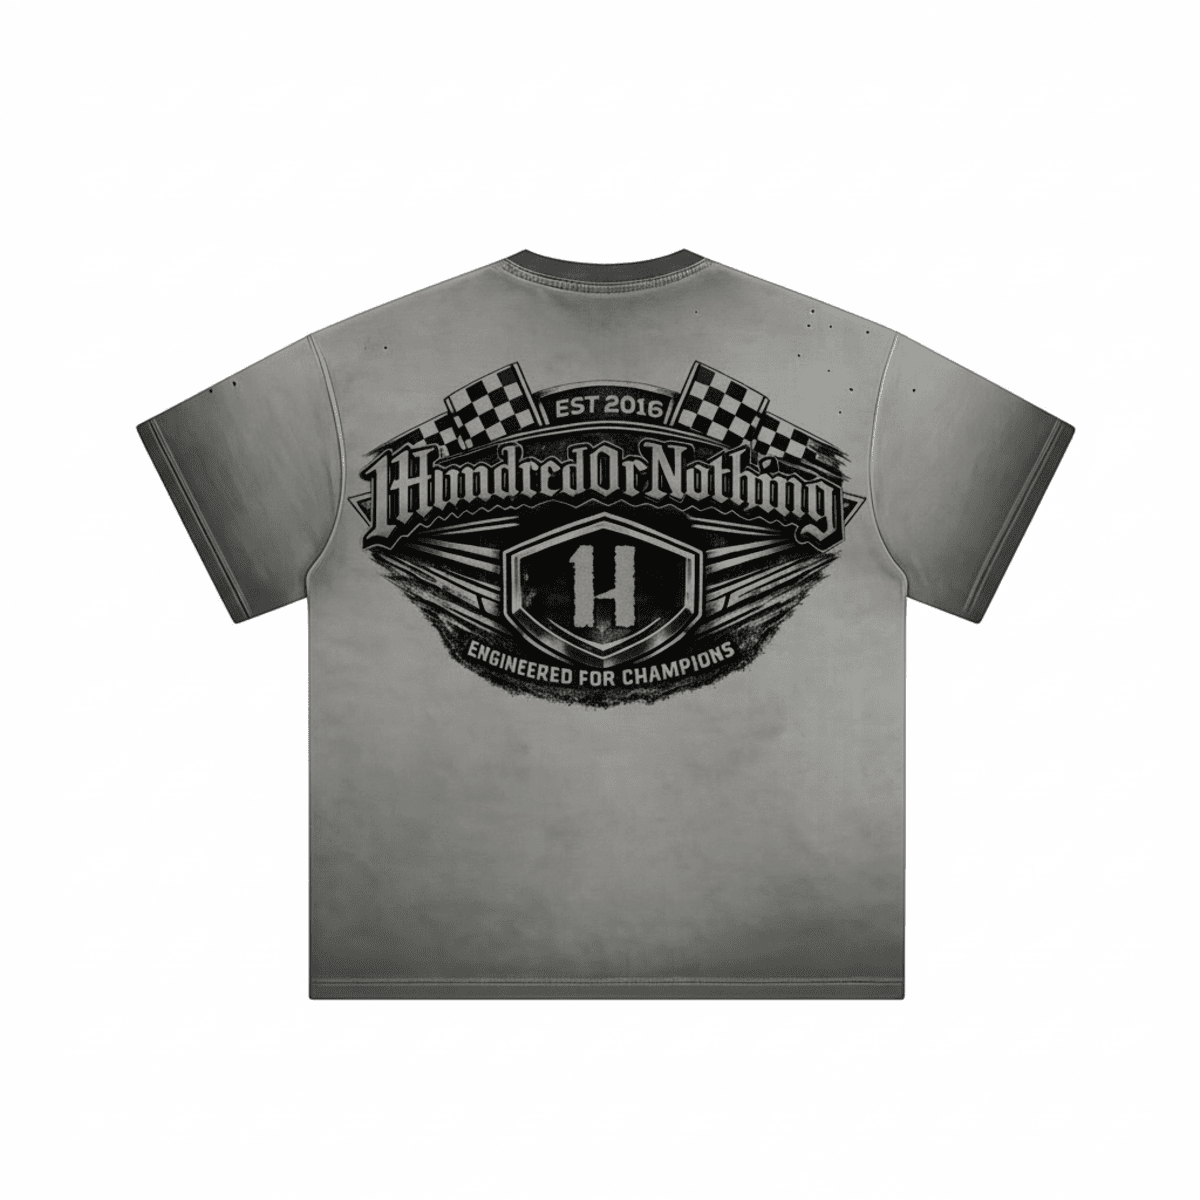
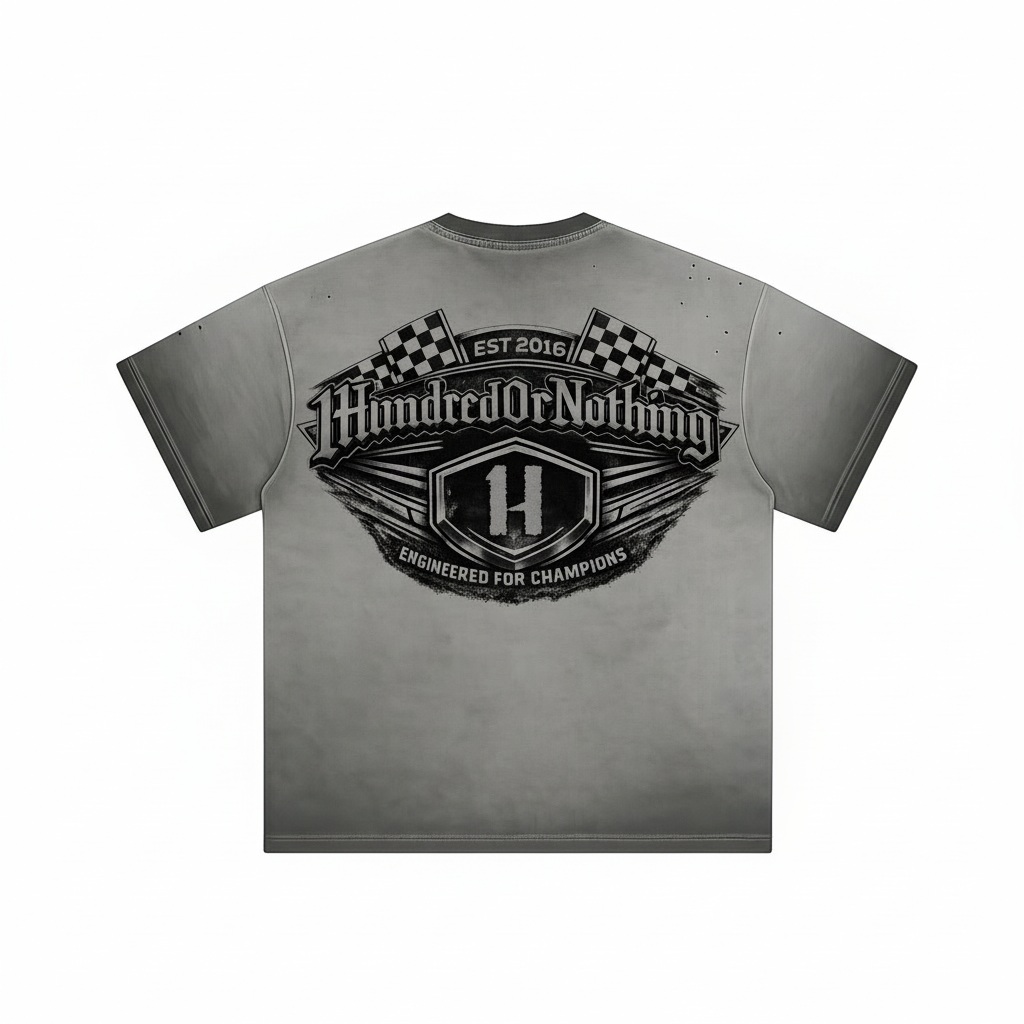
Fix image colors and center hero layout
Re-process all product/hero images from originals using resize-only
(no pngquant palette reduction). The previous 256-color lossy
compression shifted navy jeans to black and flattened subtle tones.
Now full 24-bit PNG with color profiles preserved.

Hero layout reverted to centered: image behind as background with
object-contain, dark text centered on top. No overlays or filters.

Changed region(s): [[0.625, 0.375, 0.6562, 0.4062], [0.5938, 0.4688, 0.625, 0.5], [0.5625, 0.3438, 0.5938, 0.375]]

diff --git a/index.html b/index.html
@@ -311,33 +311,30 @@
 
         <main id="main-content">
             <!-- Hero Section -->
-            <section class="relative h-screen overflow-hidden bg-white" style="padding-top: 64px;">
-                <div class="container-main h-full">
-                    <div class="h-full flex flex-col-reverse md:flex-row items-center">
-                        <!-- Left: text + buttons -->
-                        <div class="flex-1 flex flex-col justify-center py-8 md:py-0 md:pr-8">
-                            <p class="text-black/60 text-sm font-bold tracking-[0.2em] uppercase mb-4">
-                                Spring / Summer 2026
-                            </p>
-                            <h1
-                                class="text-black text-5xl md:text-7xl lg:text-8xl font-display font-bold uppercase mb-8 leading-none">
-                                The New<br />Wave
-                            </h1>
-                            <p class="text-black/70 text-lg mb-10 max-w-xl">
-                                Discover the latest collection of premium streetwear essentials designed for the modern
-                                individual.
-                            </p>
-                            <div class="flex flex-col sm:flex-row gap-4">
-                                <a href="/shop" class="btn btn-primary btn-lg">Shop Now</a>
-                                <a href="/shop" class="btn btn-secondary btn-lg">New Arrivals</a>
-                            </div>
-                        </div>
-                        <!-- Right: model image, no filters -->
-                        <div class="flex-1 h-full flex items-end justify-center md:justify-end">
-                            <img
-                                src="background.png"
-                                alt="1 HUNDRED Relentless Trophy Tee and 1H Star Cap - Premium Streetwear Collection"
-                                class="h-full max-h-[85vh] object-contain object-bottom" />
+            <section class="relative h-screen overflow-hidden bg-white">
+                <div class="absolute inset-0" style="padding-top: 60px">
+                    <img
+                        src="background.png"
+                        alt="1 HUNDRED Relentless Trophy Tee and 1H Star Cap - Premium Streetwear Collection"
+                        class="w-full h-full object-contain object-center" />
+                </div>
+
+                <div class="relative z-10 h-full flex items-center justify-center text-center px-4">
+                    <div class="max-w-3xl">
+                        <p class="text-black/60 text-sm font-bold tracking-[0.2em] uppercase mb-4">
+                            Spring / Summer 2026
+                        </p>
+                        <h1
+                            class="text-black text-5xl md:text-7xl lg:text-8xl font-display font-bold uppercase mb-8 leading-none">
+                            The New<br />Wave
+                        </h1>
+                        <p class="text-black/70 text-lg mb-10 max-w-xl mx-auto">
+                            Discover the latest collection of premium streetwear essentials designed for the modern
+                            individual.
+                        </p>
+                        <div class="flex flex-col sm:flex-row gap-4 justify-center">
+                            <a href="/shop" class="btn btn-primary btn-lg">Shop Now</a>
+                            <a href="/shop" class="btn btn-secondary btn-lg">New Arrivals</a>
                         </div>
                     </div>
                 </div>
